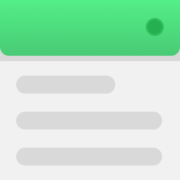
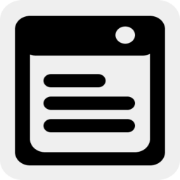
rebrand

diff --git a/app/styles/tailwind.css b/app/styles/tailwind.css
@@ -10,16 +10,27 @@
     --background: 0 0% 100%;
     --foreground: 213 13% 17%;
 
-    --primary-50: hsl(141, 64%, 87%);
-    --primary-100: hsl(141, 66%, 83%);
-    --primary-200: hsl(141, 65%, 79%);
-    --primary-300: hsl(140, 65%, 73%);
-    --primary-400: hsl(141, 66%, 68%);
-    --primary-500: hsl(140, 65%, 63%);
-    --primary-600: hsl(140, 66%, 58%);
-    --primary-700: hsl(141, 66%, 53%);
-    --primary-800: hsl(140, 66%, 48%);
-    --primary-900: hsl(140, 65%, 43%);
+    --primary-50: 217 91% 95%;
+    --primary-100: 219 89% 86%;
+    --primary-200: 219 89% 79%;
+    --primary-300: 219 88% 70%;
+    --primary-400: 219 88% 64%;
+    --primary-500: 219 88% 55%;
+    --primary-600: 219 72% 50%;
+    --primary-700: 219 72% 39%;
+    --primary-800: 219 73% 30%;
+    --primary-900: 219 73% 30%;
+
+    --success-50: 150 39% 93%;
+    --success-100: 150 40% 78%;
+    --success-200: 151 40% 68%;
+    --success-300: 151 40% 53%;
+    --success-400: 151 51% 44%;
+    --success-500: 151 93% 30%;
+    --success-600: 151 93% 27%;
+    --success-700: 151 93% 21%;
+    --success-800: 151 93% 16%;
+    --success-900: 151 94% 13%;
 
     --warning-50: 34 100% 95%;
     --warning-100: 35 100% 85%;
@@ -69,7 +80,7 @@
 
     --shell-page-width: 550px;
     --header-height: 52px;
-    --header-height-mobile: 124px;
+    --header-height-mobile: 114px;
   }
 
   .dark {
@@ -102,7 +113,7 @@
 
 @layer base {
   * {
-    -webkit-tap-highlight-color: rgb(	77, 218, 125, 0.2);
+    -webkit-tap-highlight-color: rgba(0, 0, 0, 0.6);
     font-synthesis: none;
     @apply border-border;
   }

diff --git a/app/components/navigation.tsx b/app/components/navigation.tsx
@@ -21,8 +21,7 @@ export default function Navigation({
           to="/sheets"
           className="flex-1 inline-flex justify-start items-center tap-highlight-transparent"
         >
-          <img src="/logo.png" alt="" className="h-10 block lg:hidden" />
-          <img src="/logo_horizontal.png" alt="" className="h-7 lg:block hidden" />
+          <img src="/text-logo.png" alt="" className="h-7 block" />
         </Link>
         <div
           className={cn(
@@ -36,7 +35,7 @@ export default function Navigation({
                 to={tab.to}
                 key={tab.title}
                 className={cn(
-                  "h-full w-full lg:w-fit lg:px-8 border-b border-neutral-100 inline-flex justify-center items-center lg:border-transparent",
+                  "h-full w-full lg:w-fit lg:px-8 border-b-[1.5px] border-neutral-100 inline-flex justify-center items-center lg:border-transparent",
                   isMatch && "border-neutral-950",
                 )}
               >
@@ -46,7 +45,7 @@ export default function Navigation({
                     isMatch && "text-neutral-950",
                   )}
                 >
-                  <span className="text-sm font-semibold">{tab.title}</span>
+                  <span className="text-sm font-bold">{tab.title}</span>
                 </div>
               </Link>
             );

diff --git a/app/routes/sheets/edit.$id/page.tsx b/app/routes/sheets/edit.$id/page.tsx
@@ -164,7 +164,7 @@ export default function Edit() {
                   variant="outlined-primary"
                   type="submit"
                   disabled={!form.dirty}
-                  className="w-full border-2 font-bold text-primary-500 border-primary-500"
+                  className="w-full border-2 font-bold text-primary-500 border-primary-500 rounded-full"
                 >
                   Ubah
                 </Button>
